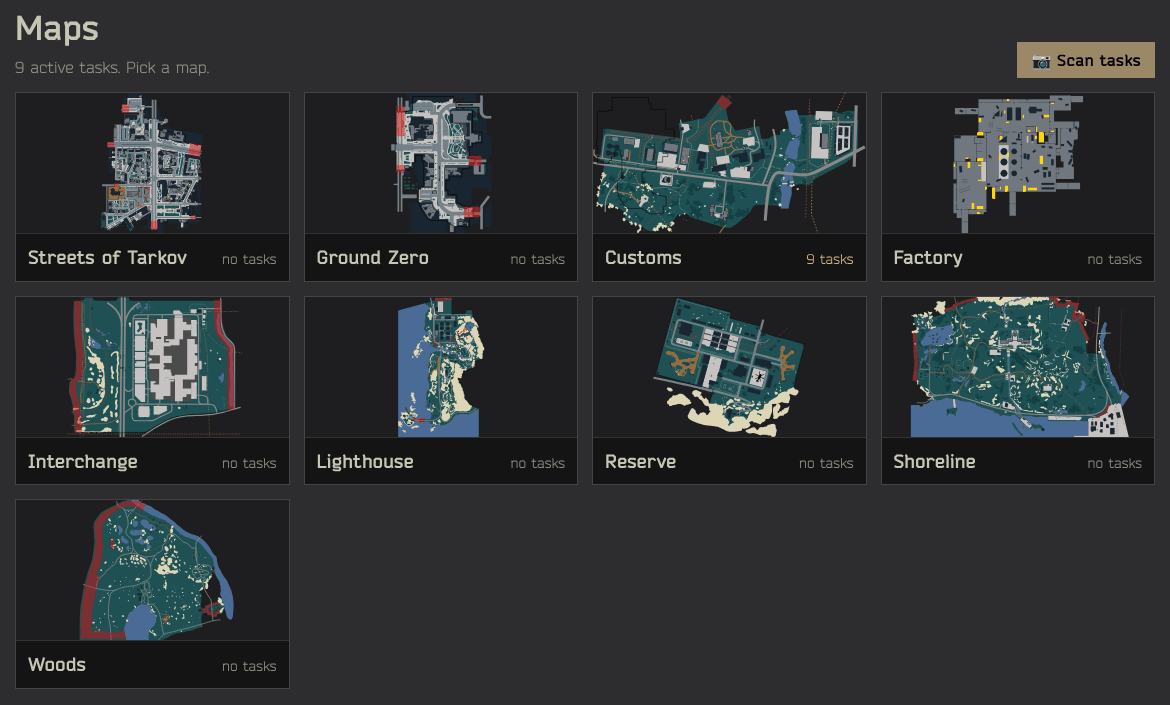
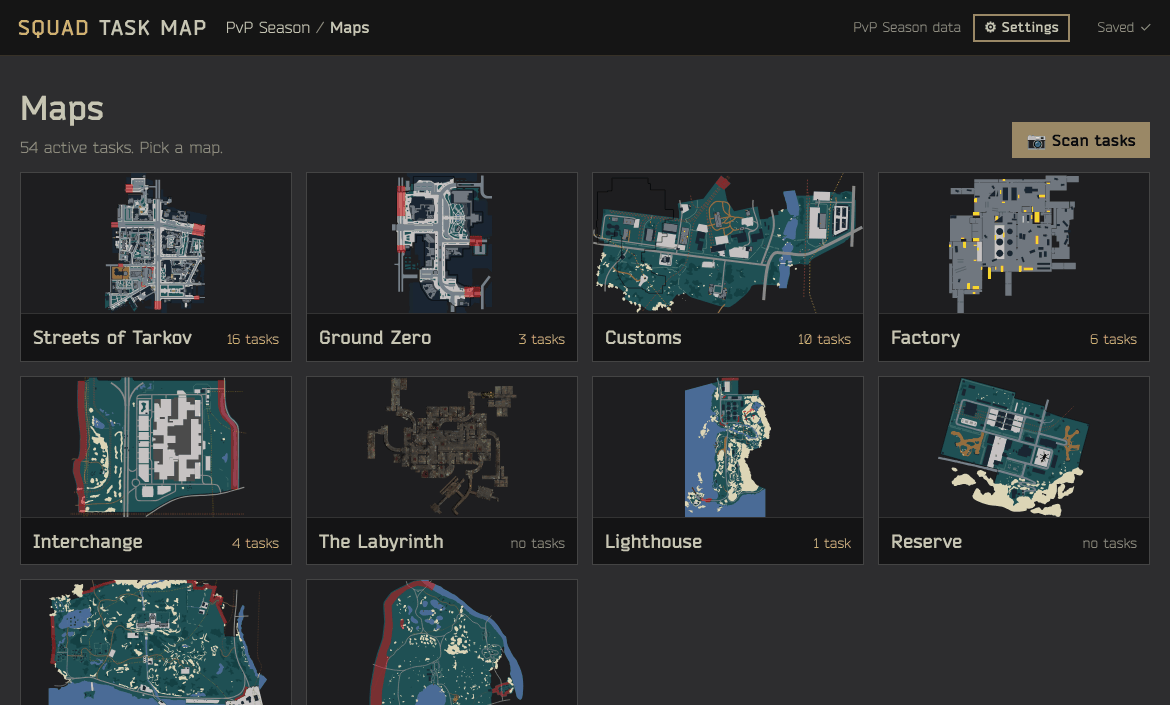
README: show the three pages (game mode, maps, a map) and the phone view
New screenshots taken from 2.9.0 in headless Chromium against the offline
mock, 256 colours like the others. The map picker picture is replaced by
the new one with its PvP Season / Maps trail.

Claude-Session: https://claude.ai/code/session_01SGc8wZLZUwkJdvTVozxeav

diff --git a/README.md b/README.md
@@ -16,12 +16,30 @@ Get the latest `SquadTaskMap.exe` from **[Releases](https://github.com/01Never/E
 
 Windows SmartScreen may say "Windows protected your PC" the first time, because the program isn't code-signed. Click **More info → Run anyway**.
 
+## The pages
+
+Three steps, like the game's own menus: pick a game mode, then a map, then work on the map. The links in the top bar (`PvP Season / Maps / Customs`) take you back a step at any time.
+
+**1. Game mode** (the home page). In Tarkov, PvE, PvP and PvP Season are separate characters, so each has its own task list. Each card shows how many tasks that mode has, which one you used last, and which mode the game is in right now.
+
+![The game mode page: PvE, PvP and PvP Season cards with their task counts](docs/images/game-mode.png)
+
+**2. Maps.** Every map, with how many of that mode's tasks are on it. **Scan tasks** is here too.
+
+![The map picker for PvP Season: every map with how many of your tasks are on it](docs/images/map-picker.png)
+
+**3. A map.** Your task markers, extracts and place names on the left; your tasks, the Bring list and the map's settings in the panel on the right.
+
+![Customs in PvP Season: task markers on the map and the task panel](docs/images/map-customs.png)
+
+On a phone the map sits above the list, and a single "‹ Maps" link replaces the trail at the top.
+
+<img src="docs/images/phone-map.png" alt="Customs on a phone: the map above the task list, with a ‹ Maps link" width="300">
+
 ## What it does
 
 ### Your tasks, per map
-The app opens on a game mode page (PvE, PvP, PvP Season); each mode keeps its own task list. Pick a mode, then a map, and see a marker for every objective of the tasks you have, grouped into categories (boss hunts, kills, placing, retrieving…) that you can rename, recolour and reorder. Tasks you accept or finish in-game are added or removed within seconds, from the game's log files. Where you have to place something, the marker shows the item's icon.
-
-![The map picker: every map with how many of your tasks are on it](docs/images/map-picker.png)
+Each game mode keeps its own task list. On a map, see a marker for every objective of the tasks you have, grouped into categories (boss hunts, kills, placing, retrieving…) that you can rename, recolour and reorder. Tasks you accept or finish in-game are added or removed within seconds, from the game's log files, in the list of the mode you're playing. Where you have to place something, the marker shows the item's icon.
 
 Click a marker or a row to select a task: its spots flash on the map, and the popup and the list show every objective with ticks and counters, the wiki link, sub-tasks and pins.
 
@@ -48,7 +66,7 @@ Join friends with an invite code: a private Tailscale network is built into the 
 ![A friend's drawing in their colour, and "Also: Alice" on a shared task](docs/images/squad.png)
 
 ### And more
-- **Scan your task list:** screenshot the in-game Tasks screen and an OpenAI vision model reads it, so your list matches the game exactly (optional, your own API key).
+- **Scan your task list:** screenshot the in-game Tasks screen, in the menus or in a raid, and an OpenAI vision model reads it, so your list matches the game exactly (optional, your own API key).
 - **AI Categorize:** sort tasks by plain-English instructions, checked against each task's wiki page (optional).
 - **Draw** on the map, **pin** tasks, add **sub-tasks**, and switch between game modes (PvP, PvE, PvP Season), each with its own task list.
 - **Check for updates** in Settings: signed releases from this repo, installed with one click.
